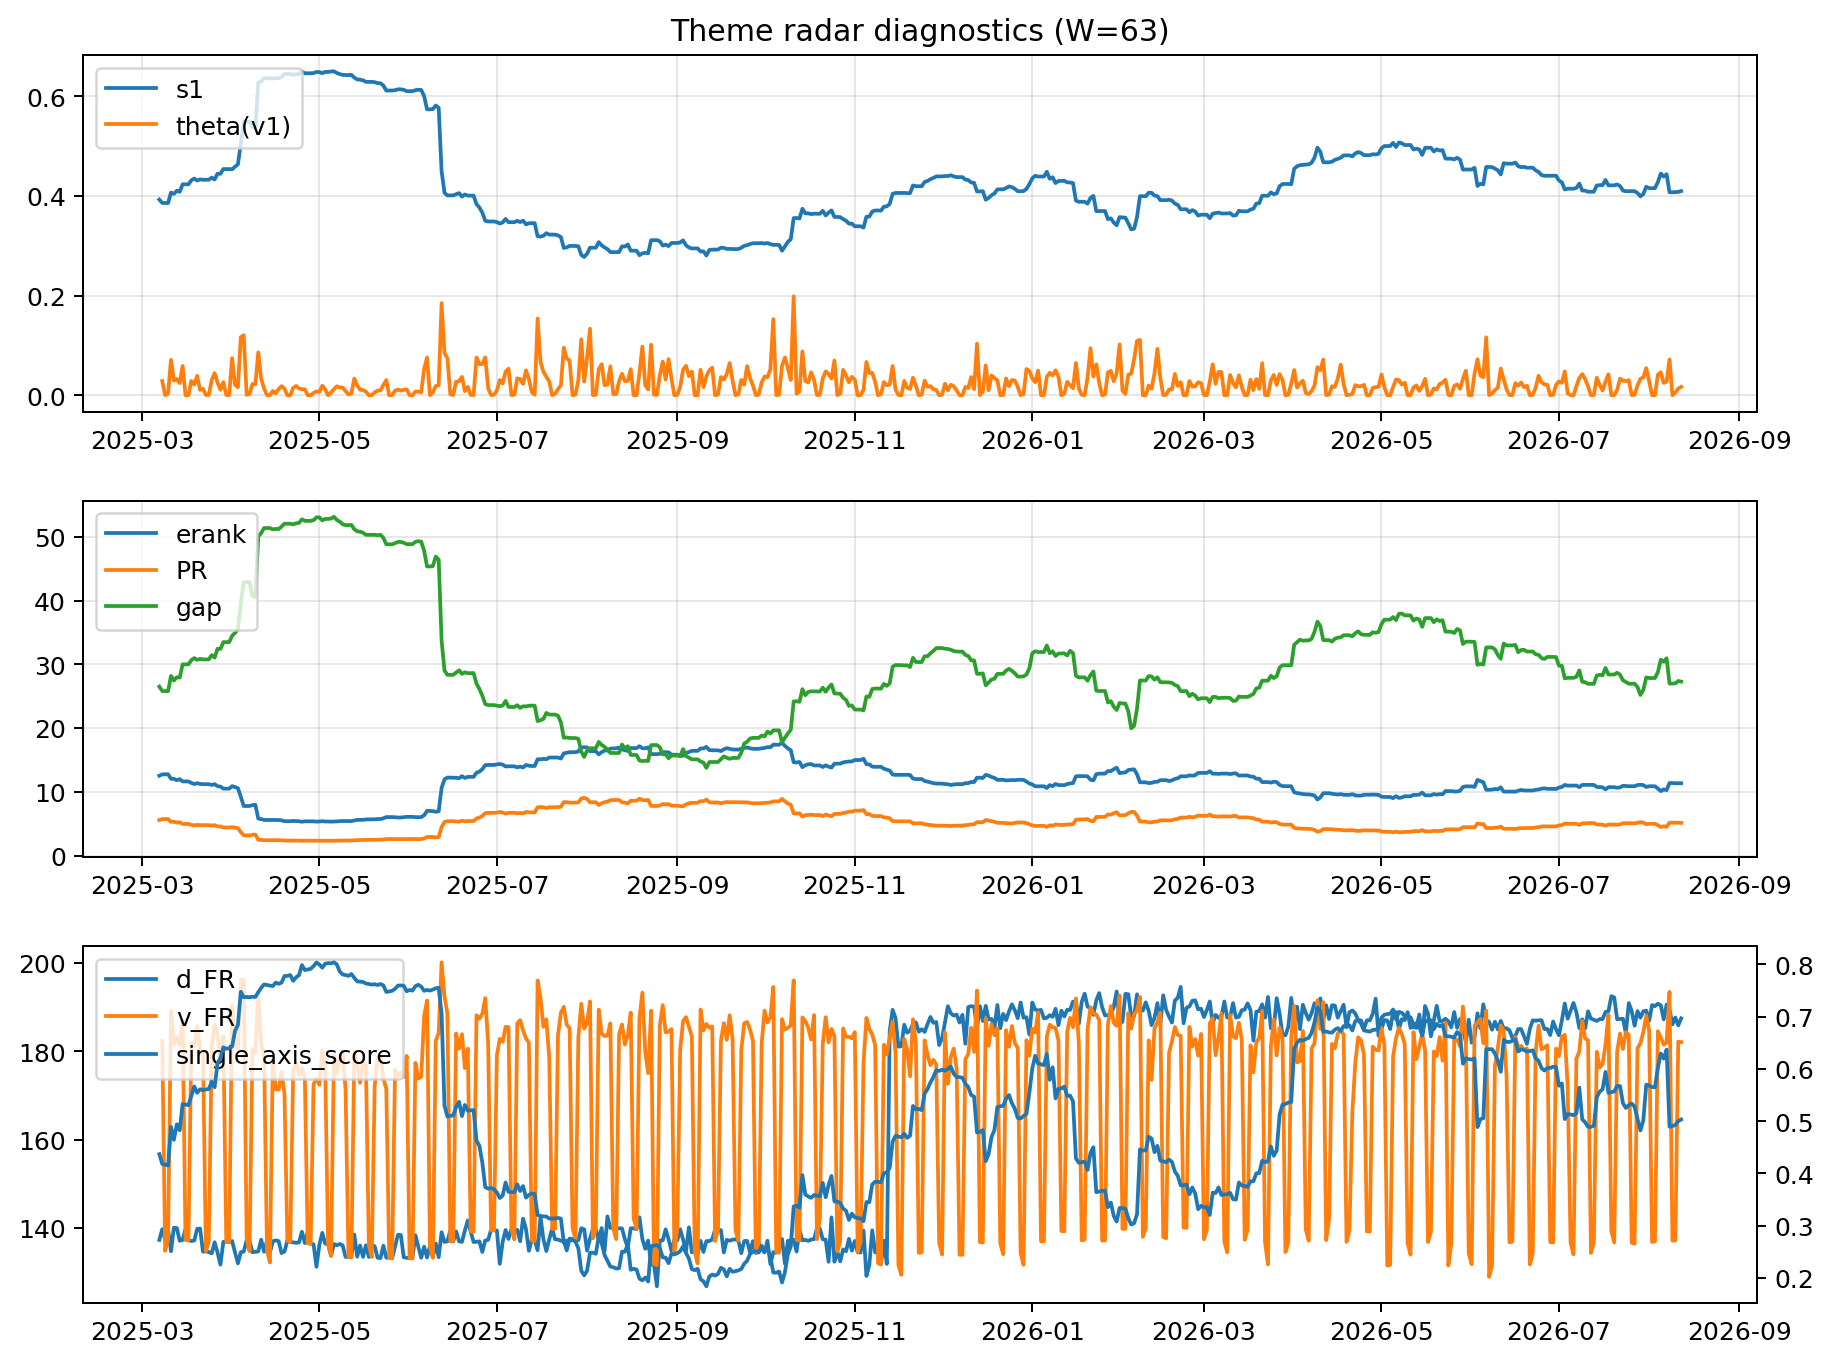
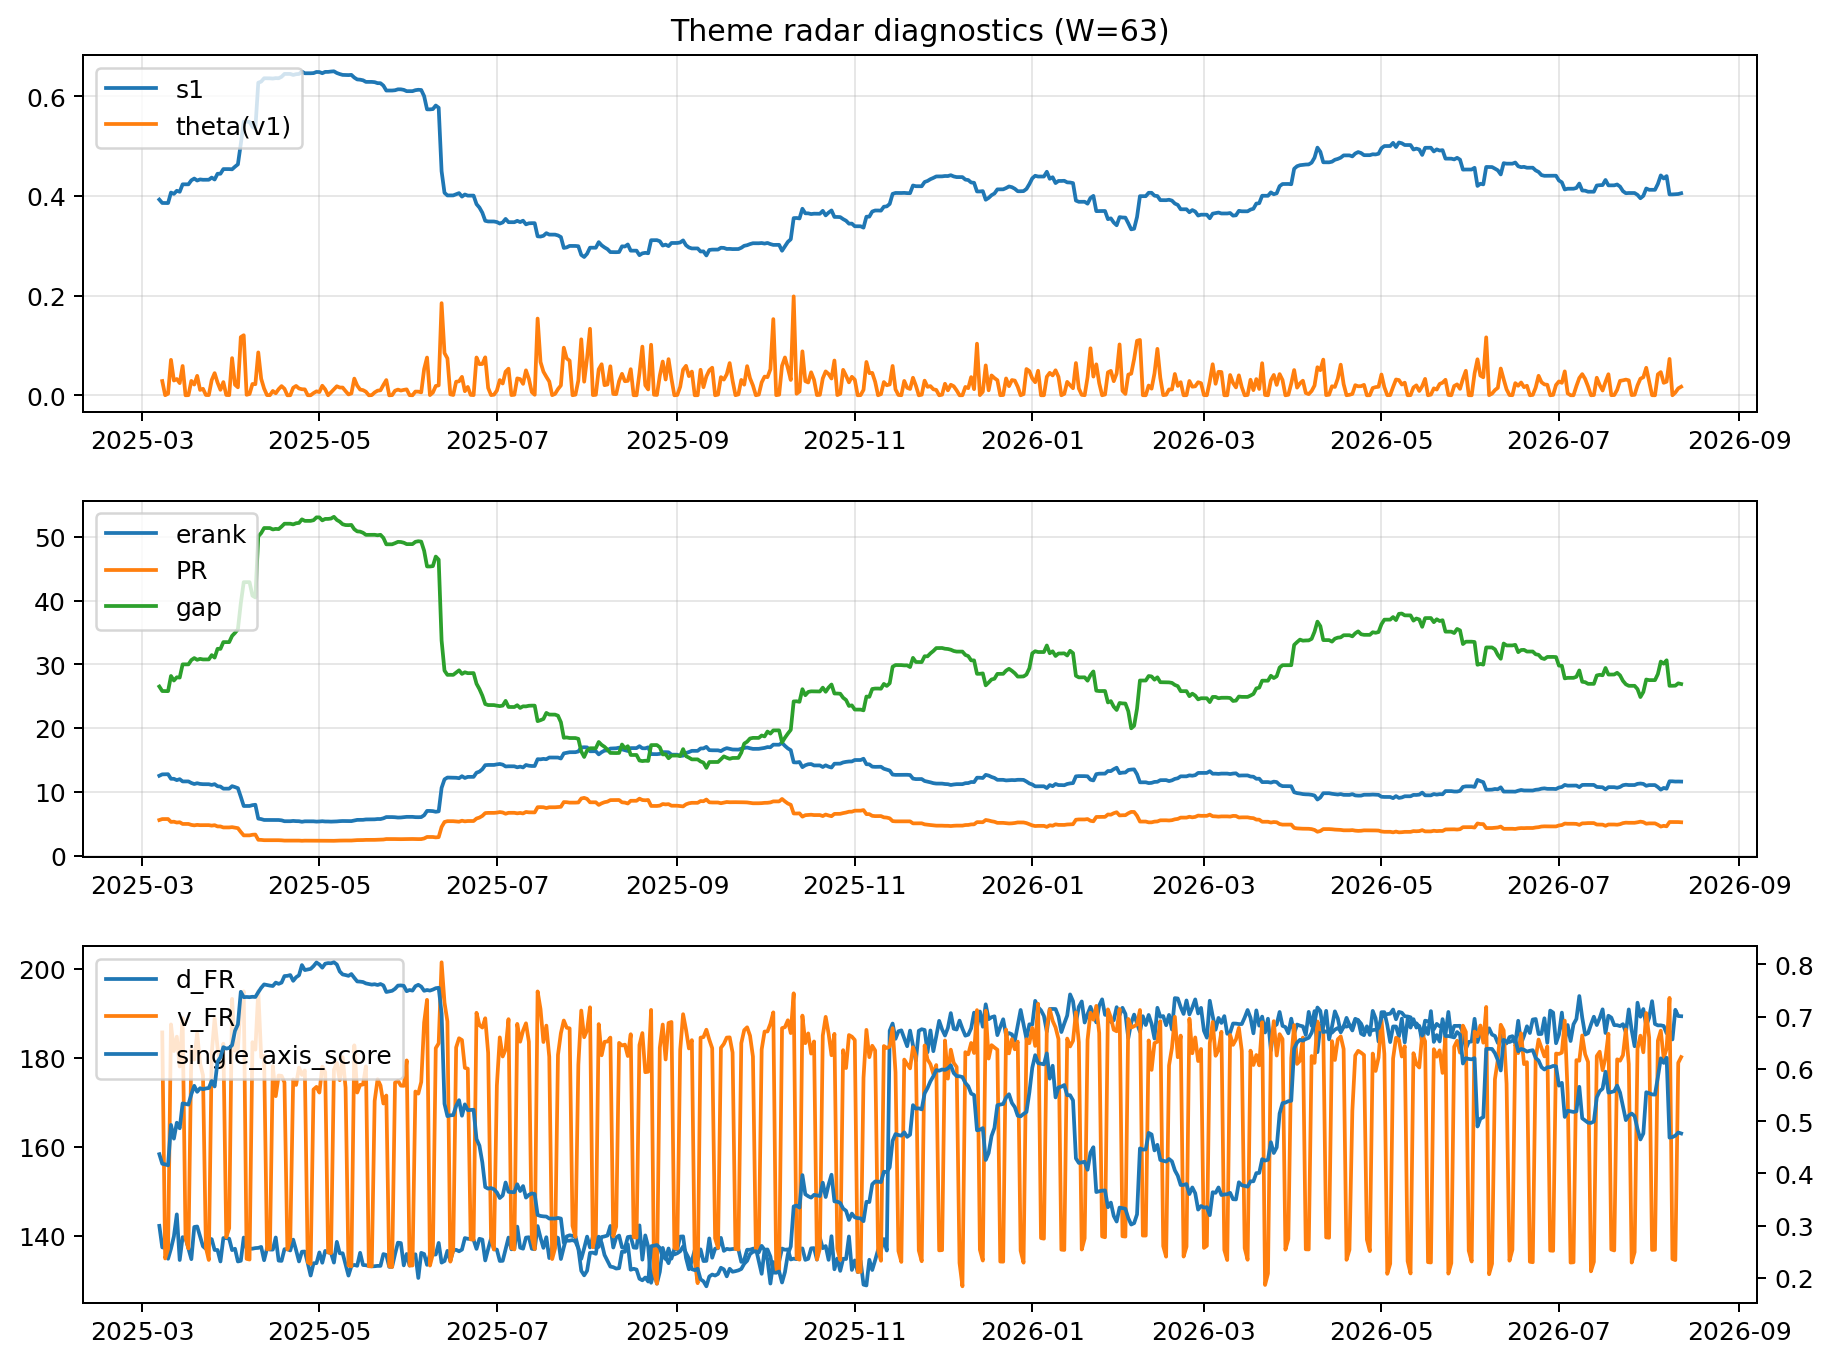
log: 2026-08-12 | sha256:9d8ca6a1b16112e6e7dc64a6c4a016cd76fe1c6f6687989c1ce8be79825af203

diff --git a/logs/2026-08-12.md b/logs/2026-08-12.md
@@ -3,44 +3,44 @@
 ![diagnostic W63](../assets/diagnostic/2026-08-12_W63.png)
 
 ## Leaders (v1) — W=63
-- **Nuclear_Uranium** (0.0881178277939712)
-- Semis (0.0717651330542192)
-- Quantum (0.0583443501282016)
+- **Nuclear_Uranium** (0.0866835164305543)
+- Semis (0.0722353379523886)
+- Quantum (0.0586380259919476)
 
 ## Challengers — W=63
-**v2:** Semis (0.0833329324658435), Rates (0.0810454097626341), Software_Cloud (0.0761948169848228)
-**v3:** MegaCap_AI (0.0853170253507539), DataCenter_Infra (0.0833916989576893), Software_Cloud (0.0819020542857215)
+**v2:** Semis (0.0822122057139108), Rates (0.0803865346645218), Software_Cloud (0.0761128092122178)
+**v3:** MegaCap_AI (0.0819076388926484), Software_Cloud (0.0815868033521784), DataCenter_Infra (0.0808060980120874)
 
 ## Migration (20D slope) — W=63
 **Top risers:**
-- axis_Commodities: 0.0005219244033195
-- axis_Semis: 0.0002104208905385
-- axis_Cyber: 0.0002045330524638
-- axis_DataCenter_Infra: 0.0001990150806873
-- axis_Quantum: 0.0001762847544158
-- axis_Grid_Power: 0.0001638558027515
-- axis_Sector_Energy: 0.0001391540326708
-- axis_Defense: 0.0001377994152657
-- axis_Space: 0.000134011722286
-- axis_Genomics_Bio: 0.0001301041234298
+- axis_Commodities: 0.000522568957141
+- axis_Semis: 0.00021792386257
+- axis_Cyber: 0.0002054230669447
+- axis_DataCenter_Infra: 0.0001811635269471
+- axis_Quantum: 0.0001791756812602
+- axis_Grid_Power: 0.00017773007307
+- axis_Sector_Energy: 0.0001399612917918
+- axis_Defense: 0.0001388283496515
+- axis_Space: 0.000137232670392
+- axis_Genomics_Bio: 0.0001275118129926
 
 **Top fallers:**
-- axis_Credit: -8.892897630891978e-05
-- axis_Crypto: -0.0001157433146041
-- axis_Vol: -0.0001335839335294
-- axis_USD: -0.00014503831687
-- axis_MegaCap_AI: -0.0001493480715548
-- axis_Sector_Comm: -0.0001638979074781
-- axis_Critical_Minerals: -0.0001646826007021
-- axis_Miners: -0.0002153836376643
-- axis_Rates: -0.0004733300438778
-- axis_Metals: -0.0004805949438885
+- axis_Vol: -0.0001021599336297
+- axis_Crypto: -0.0001211426703102
+- axis_Sector_Comm: -0.0001327546455321
+- axis_MegaCap_AI: -0.0001454495412935
+- axis_USD: -0.0001456059898919
+- axis_Credit: -0.0001542964929268
+- axis_Critical_Minerals: -0.0001642244306466
+- axis_Miners: -0.0002167610121997
+- axis_Metals: -0.0004799249287156
+- axis_Rates: -0.0004811746534053
 
 ## Risk line (W=63)
-- s1: 0.4096802031259038
-- theta_v1: 0.0170071137891702
-- v_FR: 182.0694649961345
-- single_axis_score: 0.5030534351145037
+- s1: 0.4053181310547745
+- theta_v1: 0.0172134957960466
+- v_FR: 180.183219018856
+- single_axis_score: 0.4763358778625954
 
 ## Interpretation
 **Regime:** `theme_migration`
@@ -48,7 +48,7 @@
 - Action: Tomorrow watchlist: Commodities, Semis, Cyber, DataCenter_Infra, Quantum + v2_top1=Semis
 - Action: Hedge note: normal correlation stability.
 
-- Percentiles (W=63 history): vfr_pct=0.58, theta_pct=0.45, s1_pct=0.50, score_pct=0.47.
+- Percentiles (W=63 history): vfr_pct=0.48, theta_pct=0.46, s1_pct=0.45, score_pct=0.44.
 
 ---
[2 lines of base64/hex data omitted]
